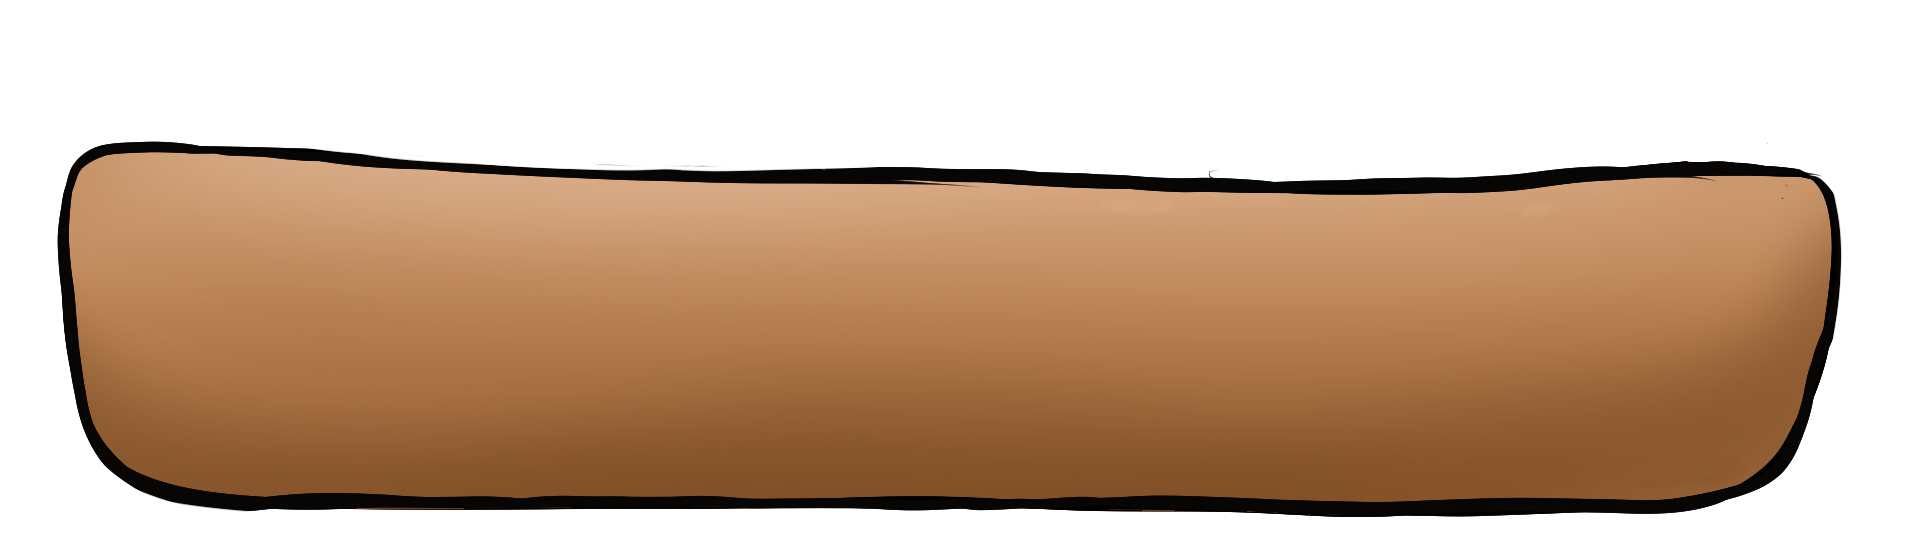
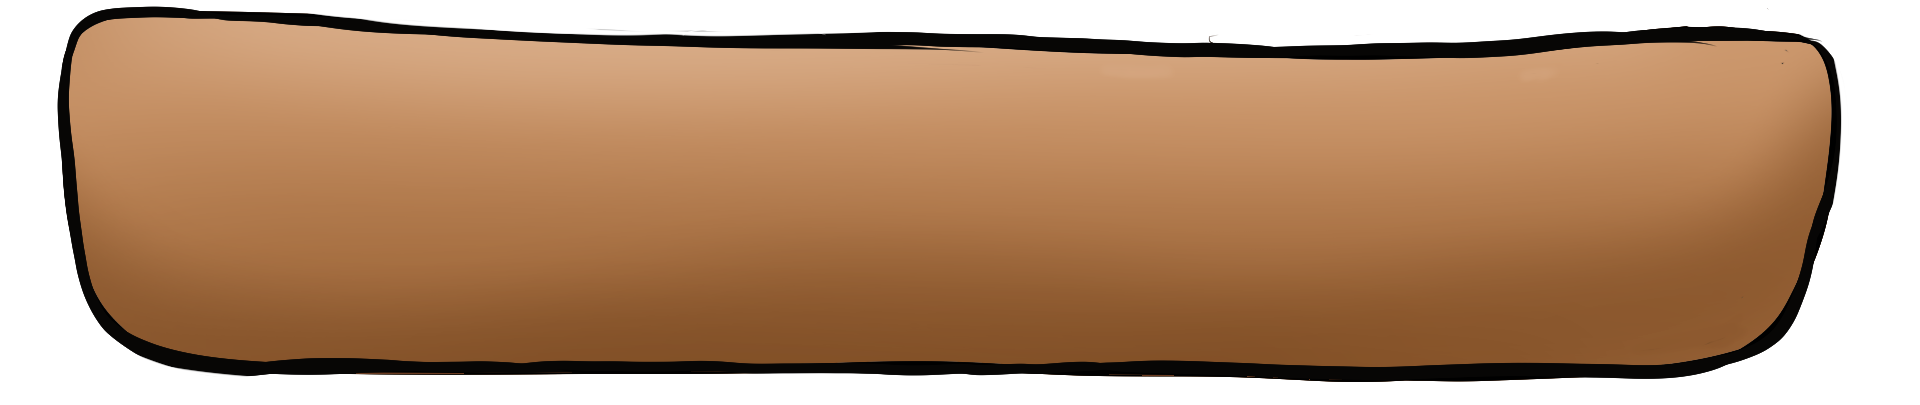
desktop resolution scaling

diff --git a/index.html b/index.html
@@ -20,26 +20,28 @@
 <body name="top">
 
     <div class="burger-container">
-        <div class="title-section top-bun">
-            <h1 class="title">Hell Yeah, Burgers!</h1>
-            <h2 class="subtitle">A Virtual Reality Game</h2>
+        <div class="title-section top-bun center">
+            <div>
+                <h1 class="title">Hell Yeah, Burgers!</h1>
+                <h2 class="subtitle">A Virtual Reality Game</h2>
+            </div>
         </div>
 
         <div class="nav-section">
             <ul>
 
-               <div class="tomato"><li><a href="mailto:hellyeahburgers@gmail.com">contact</a></li></div>
-                <div class="tomato"><li><a href="press/build/index.html">press</a></li></div>
+               <div class="tomato center">
+                   <li><a href="mailto:hellyeahburgers@gmail.com">contact</a></li></div>
+                <div class="tomato center">
+                    <li><a href="press/build/index.html">press</a></li></div>
             </ul>
         </div>
-
-        <!--
-        <div class="video-section patty">
-            <iframe width="560" height="315" src="https://www.youtube.com/embed/f9YgzYMGG30" frameborder="0"
+ 
+        <div class="video-section">
+            <iframe class="outline" width="560" height="315" src="https://www.youtube.com/embed/f9YgzYMGG30" frameborder="0"
                 allow="accelerometer; autoplay; encrypted-media; gyroscope; picture-in-picture"
                 allowfullscreen></iframe>
         </div>
-        -->
 
         <div class="patty">
             <h2>Put your burger chef skills to the test in VR.</h2>
@@ -47,47 +49,42 @@
 
         <div class="gif-section">
 
-            <div class="cheese">
+            <div class="outline">
                 <img src="assets/gifs/CheeseSlicing.gif"></img>
             </div>
-            <div class="cheese">
+            <div class="outline">
                 <img src="assets/gifs/KetchupBottleFryingPan.gif"></img>
             </div>
-            <div class="cheese">
+            <div class="outline">
                 <img src="assets/gifs/PickleSlicing.gif"></img>
             </div>
-
         </div>
 
         <div class="pickles">
-            <div class="pickle">
+            <div class="pickle center">
                 <h3>Order up!</h3>
             </div>
-            <div class="pickle">
+            <div class="pickle center">
                 <h3>Fry & serve!</h3>
             </div>
-            <div class="pickle">
+            <div class="pickle center">
                 <h3>Chop til you drop!</h3>
             </div>
         </div>
+
+        <div class="cheese"></div>
 
         <div class="patty">
            <h2>You're a professional chef...so you better act like one!</h2> 
         </div>
 
-        <div class="cheese">
-            <img src="assets/screenshots/GiannaConcept.jpg"></img>
+        <div class="big-media outline">
+            <img src="assets/screenshots/GiannaConcept.png"></img>
         </div>
 
-        <div class="description-section cheese">
+        <div class="description-section onion">
             <p>Gianna Remy, one of the best chefs in the world, is here to give you a test of skill. Take orders, cook, fry, chop, and assemble gourmet burgers for her to judge. But don’t get cocky, she isn’t easily impressed.</p>
         </div>
-
-        <!--
-        <div class="patty" id="about">
-            <h2>Meet the Team</h2>
-        </div>
-        -->
 
         <div class="bottom-bun social-section">
             <div class="social-links">
@@ -99,9 +96,8 @@
                 </ul>
             </div>
 
-            <!--
             <center><a href="#top">Back to top.</a></center>
-            -->
+
         </div>
     </div>
 

diff --git a/css/styles.css b/css/styles.css
@@ -64,10 +64,6 @@ h1{
    
 }
 
-.title{
- 
-}
-
 h2{   
     font-size: 1.5rem;
     text-align: center;
@@ -75,11 +71,12 @@ h2{
 }
 
 h3{
-    font-size: 1rem;
+    padding: 10px;
+    font-size: 100%;
     text-align: center;
 }
 
-div .patty, div .top-bun, div .pickle, div .tomato, div .lettuce, div .cheese, div .bottom-bun{
+div .patty, div .top-bun, div .pickle, div .tomato, div .lettuce, div .cheese, div .bottom-bun, div .onion{
     margin-bottom: 20px;
 
     /* Position and center the image to scale nicely on all screens */   
@@ -87,14 +84,18 @@ div .patty, div .top-bun, div .pickle, div .tomato, div .lettuce, div .cheese, d
     background-repeat: no-repeat;
 	background-size: cover;
     position: relative;
- 
-    border: 1px solid blue;
 }
 
 footer{
     margin-top: 1em;
     text-align: center;
 }
+
+.center {
+    display: flex;
+    justify-content: center;
+    align-items: center;
+  }
 
 /*SECTIONS*/
 
@@ -112,7 +113,7 @@ footer{
 }
 
 .title-section{
-    padding-top: 100px;
+    position: relative;
     text-align: center;
 }
 
@@ -129,7 +130,11 @@ footer{
     display: flex;
     justify-content: space-evenly;
     align-items: center; 
-    /*height: 200px;*/
+    margin-bottom: 20px;
+}
+
+.big-media{
+    margin-bottom: 20px;
 }
   
   .gif-section>div {
@@ -144,6 +149,10 @@ footer{
 
 .description-section{
     padding: 10px;
+}
+
+.social-links{
+    padding-top: 5%;
 }
 
 .social-links ul{
@@ -167,87 +176,44 @@ footer{
     padding-top: 50px;
     height: 150px;
     background-image: url('../assets/burger/pattythin.png');
-
-    /*
-	-moz-border-radius: 20px;
-   -webkit-border-radius: 20px;
-   -khtml-border-radius: 20px;
-   border-radius: 20px;
-
-   background-color: rgb(138, 99, 51);
-   border: 3px solid black;
-   */
 }
 
-.lettuce {
-	-moz-border-radius: 20px;
-   -webkit-border-radius: 20px;
-   -khtml-border-radius: 20px;
-   border-radius: 20px;
-
-   background-color: rgb(152, 255, 138);
+.outline {
    border: 3px solid black;
 }
 
 .top-bun{
-
-    height: 300px;
+    height: 280px;
     background-image: url('../assets/burger/topbun.png');
-
-    /*
-    border-radius: 50% 50% 50% 50% / 60% 60% 30% 30%;
-    background-color: #F2A950;
-    border: 3px solid black; */
 }
 
 .bottom-bun{
-    
-    height: 350px;
-    background-image: url('../assets/burger/bottombun.png');
-    
-    /*
-    border-radius: 60% 60% 20% 20% / 30% 30% 50% 50%;
-    background-color: #F2A950;
-    border: 3px solid black; */
+    height: 150px;
+    background-image: url('../assets/burger/bottombun.png');  
 }
 
 .pickle{
-    height: 300px;
+    height: 60px;
+    min-width: 200px;
     background-image: url('../assets/burger/pickle.png');
-
-    /*
-    background-color: green;
-    border: 2px solid black;
-    width: 20%;
-    border-radius: 100px / 50px;
-    margin-left: auto;
-    margin-right: auto;
-    display: block;
-*/
 }
 
 .tomato{
-
-    height: 300px;
+    width: 350px;
+    height: 80px;
     background-image: url('../assets/burger/tomato.png');
-
-    /*
-    background-color: rgb(231, 74, 74);
-    border: 2px solid black;
-    width: 40%;
-    border-radius: 100px / 50px;
-    margin-left: auto;
-    margin-right: auto;
-    display: block;
-    */
 }
 
 .cheese{
-    background-color: rgb(255, 208, 0);
-    border: 3px solid black;
-    margin-left: auto;
-    margin-right: auto;
-    display: block;
+    height: 80px;
+    background-image: url('../assets/burger/cheese2.png');
+}
+
+.onion{ 
+    padding-top: 25px;
+    min-width: 500px;
+    height: 140px;
+    background-image: url('../assets/burger/onion.png');
 }
 
 /*MEDIA QUERIES*/
